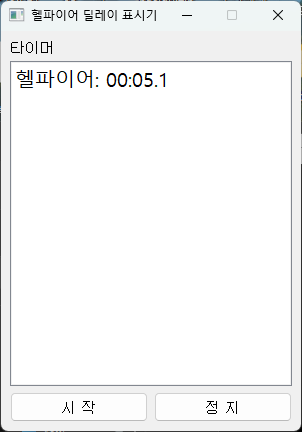
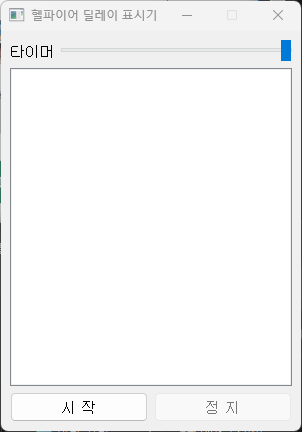
1. 지폭지술을 추가했습니다. 2. 이제 화면 크기를 200 x 300 에서 300 x 400 까지 조절할 수 있습니다. 3. 이제 투명도를 조절할 수 있습니다. 4. 이제 화면 인식 주기, 마법들의 딜레이, 화면 크기 및 투명도를 설정 파일로 저장, 수정 할 수 있습니다. 5. 다른 프로그램에 가려지지 않게 수정했습니다.

diff --git a/delay-viewer.py b/delay-viewer.py
@@ -4,18 +4,20 @@ import numpy as np
 import threading
 import time
 import pyautogui
-from PyQt5.QtWidgets import QApplication, QMainWindow, QLabel, QListWidget, QPushButton, QVBoxLayout, QHBoxLayout, QWidget # type: ignore
-from PyQt5.QtCore import QTimer, QThread, pyqtSignal # type: ignore
+from PyQt5.QtWidgets import QApplication, QMainWindow, QLabel, QListWidget, QPushButton, QVBoxLayout, QHBoxLayout, QWidget, QSlider # type: ignore
+from PyQt5.QtCore import QTimer, QThread, pyqtSignal, Qt # type: ignore
 import os
 import datetime
+import json
 
 class RecognitionThread(QThread):
     recognized = pyqtSignal(str)
 
-    def __init__(self, template_durations, mp_template_path):  # mp_template_path 추가
+    def __init__(self, template_durations, mp_template_path, sleep_duration):
         super().__init__()
         self.template_durations = template_durations
         self.mp_template = cv2.imread(mp_template_path, 0)  # MP 템플릿 로드
+        self.sleep_duration = sleep_duration
         self.running = True
 
     def run(self):
@@ -40,7 +42,7 @@ class RecognitionThread(QThread):
                     if max_val > 0.8:
                         self.recognized.emit(template_name)
 
-            time.sleep(0.05)
+            time.sleep(self.sleep_duration)
 
     def stop(self):
         self.running = False
@@ -48,11 +50,33 @@ class RecognitionThread(QThread):
         self.wait()
 
 class ImageRecognitionTimerApp(QMainWindow):
+    def save_window_size(self):
+        self.settings['window_size'] = {'width': self.width(), 'height': self.height()}
+        self.settings['opacity'] = self.windowOpacity() * 100
+        with open('settings.txt', 'w', encoding='utf-8') as file:
+            json.dump(self.settings, file, indent=4, ensure_ascii=False)
+    def change_opacity(self, value):
+        self.setWindowOpacity(value / 100.0)
     def __init__(self):
         super().__init__()
+        
+        self.setWindowFlags(self.windowFlags() | Qt.WindowStaysOnTopHint)
         self.setWindowTitle('헬파이어 딜레이 표시기')
-        self.setGeometry(100, 100, 300, 200)
-        self.setFixedSize(300, 400)
+        self.settings = self.load_settings()
+        window_size = self.settings.get('window_size', {'width': 300, 'height': 400})
+        opacity = self.settings.get('opacity', 100)
+        self.setWindowOpacity(opacity / 100.0)
+        self.setGeometry(100, 100, window_size['width'], window_size['height'])
+        self.setMinimumSize(200, 300)
+        self.setMaximumSize(300, 400)
+
+        
+        self.template_durations = self.settings.get('template_durations', {
+            './images/hellfire.png': {'duration': 8.5, 'name': '헬파이어'},
+            './images/crosshellfire.png': {'duration': 60, 'name': '삼매진화'},
+            './images/hellfiredetonation.png': {'duration': 255, 'name': '지폭지술'},
+        })
+        self.sleep_duration = self.settings.get('sleep_duration', 0.05)
 
         # Main layout
         self.central_widget = QWidget()
@@ -66,12 +90,18 @@ class ImageRecognitionTimerApp(QMainWindow):
         # Timer list
         timer_layout = QVBoxLayout()
         timer_label = QLabel('타이머')
+        self.opacity_slider = QSlider(Qt.Horizontal)
+        self.opacity_slider.setMinimum(30)  # 최소 투명도 (30%)
+        self.opacity_slider.setMaximum(100)  # 최대 투명도 (100%)
+        self.opacity_slider.setValue(int(opacity))  # 초기값 100%
+        self.opacity_slider.valueChanged.connect(self.change_opacity)
         timer_label.setStyleSheet("font-size: 15px;")  # Set font size to 15
-        timer_layout.addWidget(timer_label)
+        self.top_layout.addWidget(timer_label)
+        self.top_layout.addWidget(self.opacity_slider)
         self.timer_list = QListWidget()
         self.timer_list.setStyleSheet("font-size: 20px;")  # Set font size to 20
         timer_layout.addWidget(self.timer_list)
-        self.top_layout.addLayout(timer_layout)
+        self.main_layout.addWidget(self.timer_list)
 
         # Control buttons
         self.control_layout = QHBoxLayout()
@@ -93,26 +123,38 @@ class ImageRecognitionTimerApp(QMainWindow):
 
         # Timer and recognition control
         self.recognition_thread = None
-        self.template_durations = {
-            './images/hellfire.png': {'duration': 8.5, 'name': '헬파이어'},  # 9초 타이머
-            './images/crosshellfire.png': {'duration': 60, 'name': '삼매진화'},  # 60초 타이머
-        }
         self.timers = {}
         self.timer_objects = {}
 
-        # Ensure logs directory exists
-        if not os.path.exists('logs'):
-            os.makedirs('logs')
-
-    def log(self, message):
-        print(message)  # 콘솔에 로그 출력
+    def load_settings(self):
+        settings_path = 'settings.txt'
+        if os.path.exists(settings_path):
+            try:
+                with open(settings_path, 'r', encoding='utf-8') as file:
+                    return json.load(file)
+            except UnicodeDecodeError:
+                with open(settings_path, 'r', encoding='ansi') as file:
+                    return json.load(file)
+                return json.load(file)
+        else:
+            default_settings = {
+                'template_durations': {
+                    './images/hellfire.png': {'duration': 8.5, 'name': '헬파이어'},
+                    './images/crosshellfire.png': {'duration': 60, 'name': '삼매진화'},
+                    './images/hellfiredetonation.png': {'duration': 255, 'name': '지폭지술'},
+                },
+                'sleep_duration': 0.05,
+                'window_size': {'width': 300, 'height': 400}
+            }
+            with open(settings_path, 'w', encoding='utf-8') as file:
+                json.dump(default_settings, file, indent=4, ensure_ascii=False)
+            return default_settings
 
     def start_recognition(self):
         if not self.recognition_thread:
             self.start_button.setEnabled(False)
             self.stop_button.setEnabled(True)
-            self.log('Image recognition started.')
-            self.recognition_thread = RecognitionThread(self.template_durations, './images/mp_zero.png')
+            self.recognition_thread = RecognitionThread(self.template_durations, './images/mp_zero.png', self.sleep_duration)
             self.recognition_thread.recognized.connect(self.add_timer)
             self.recognition_thread.start()
 
@@ -122,8 +164,6 @@ class ImageRecognitionTimerApp(QMainWindow):
             self.stop_button.setEnabled(False)
             self.recognition_thread.stop()
             self.recognition_thread = None
-            self.log('Image recognition stopped.')
-            self.save_log_to_file()
 
     def add_timer(self, template_name):
         if template_name in self.timers and self.timers[template_name]['active']:
@@ -168,19 +208,12 @@ class ImageRecognitionTimerApp(QMainWindow):
                 break
 
         if template_name in self.timers:
-            self.log(f"{self.template_durations[template_name]['name']} timer finished and removed.")
             self.timers[template_name]['active'] = False
 
-    def save_log_to_file(self):
-        timestamp = datetime.datetime.now().strftime('%Y-%m-%d_%H-%M-%S')
-        filename = f'log_{timestamp}.txt'
-        with open(f'logs/{filename}', 'w') as log_file:
-            log_file.write('Logs saved to file.')
-
     def closeEvent(self, event):
+        self.save_window_size()
         if self.recognition_thread:
             self.recognition_thread.stop()
-        self.save_log_to_file()
         event.accept()
 
 if __name__ == '__main__':
